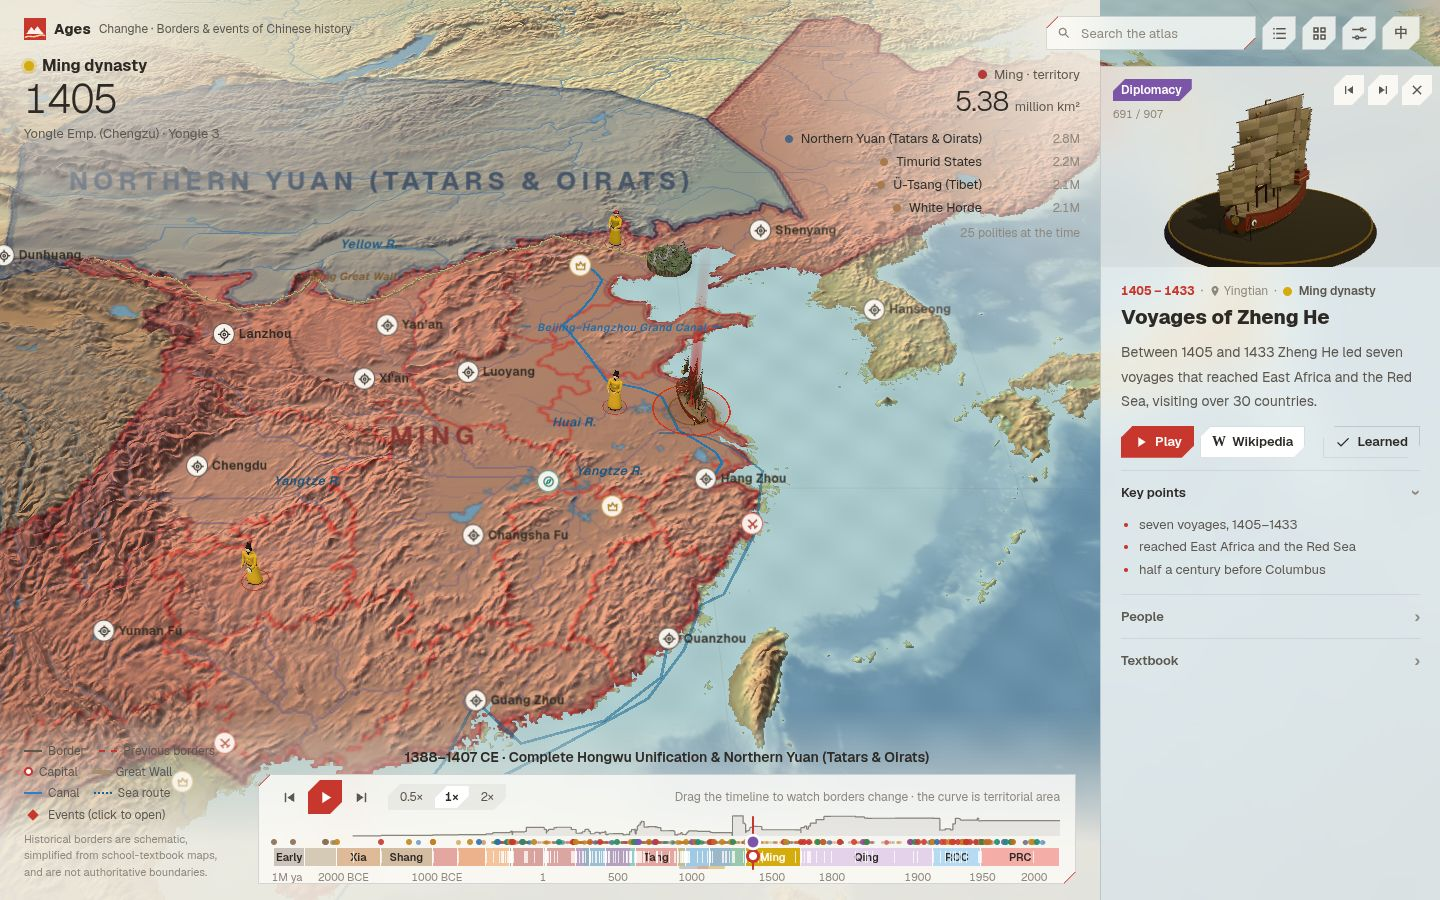
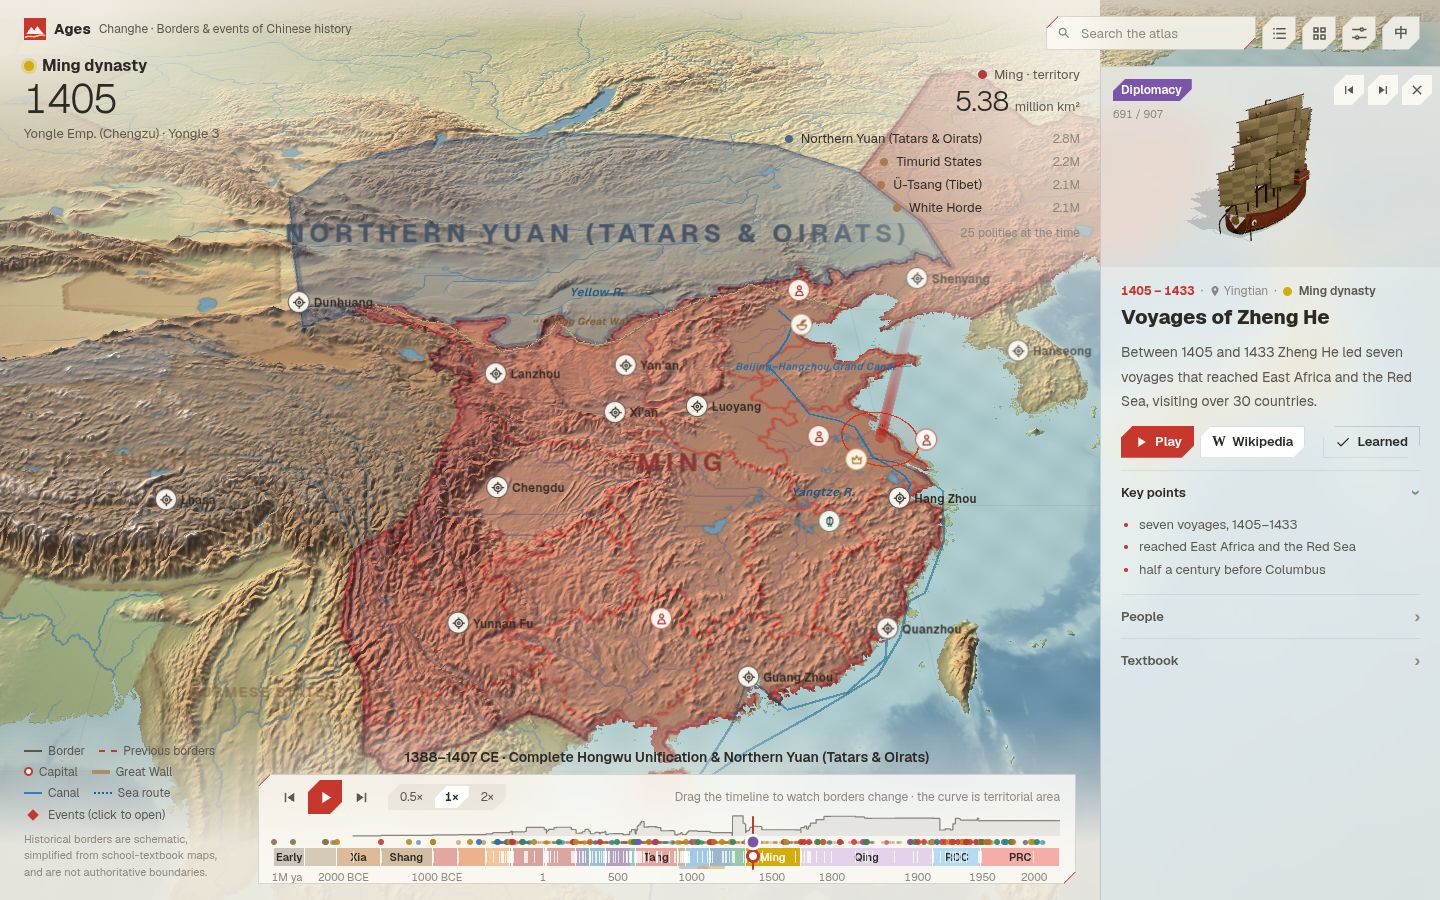
Drop the bronze stage under card previews; models keep their own base

diff --git a/src/client/ui/preview.ts b/src/client/ui/preview.ts
@@ -4,7 +4,7 @@ import { outdoorEnvironment } from '../models/environment.ts';
 import { instance } from '../models/library.ts';
 
 /**
- * The turntable at the top of the info panel: the subject's 3D model (landmark, figure, army …) on a bronze plinth,
+ * The turntable at the top of the info panel: the subject's 3D model (landmark, figure, army …) on its own base,
  * slowly turning; drag to spin it. One small renderer, shared by every card and only running while visible.
  */
 export class Preview {
@@ -40,17 +40,10 @@ export class Preview {
     const rim = new THREE.DirectionalLight('#fde68a', 0.9);
     rim.position.set(0.5, 2.5, -3.5);
     this.scene.add(key, fill, rim, new THREE.HemisphereLight('#e0f2fe', '#2a2219', 0.35));
-    // a stepped bronze plinth with a hairline ring, so every model sits on the same stage
-    const plinth = new THREE.Group();
-    const m1 = new THREE.MeshStandardMaterial({ color: '#2a2219', roughness: 0.8, metalness: 0.2 });
-    const m2 = new THREE.MeshStandardMaterial({ color: '#8a6a3a', roughness: 0.45, metalness: 0.75 });
-    const a = new THREE.Mesh(new THREE.CylinderGeometry(1.22, 1.3, 0.08, 64), m1);
-    a.position.y = -0.04;
-    a.receiveShadow = true;
-    const ring = new THREE.Mesh(new THREE.TorusGeometry(1.24, 0.012, 6, 96), m2);
-    ring.rotation.x = Math.PI / 2;
-    plinth.add(a, ring);
-    this.scene.add(plinth);
+    // models bring their own base; an invisible floor only catches a soft contact shadow
+    const floor = new THREE.Mesh(new THREE.CircleGeometry(2.4, 48).rotateX(-Math.PI / 2), new THREE.ShadowMaterial({ opacity: 0.18 }));
+    floor.receiveShadow = true;
+    this.scene.add(floor);
     this.bindDrag();
   }
 
@@ -85,7 +78,7 @@ export class Preview {
     let g: THREE.Group;
     try { g = await instance(recipe, true); } catch { return; }
     if (id !== this.req) return;
-    // frame the model: normalise to the plinth and aim the camera at its middle
+    // frame the model: normalise its footprint and aim the camera at its middle
     const box = new THREE.Box3().setFromObject(g);
     const size = box.getSize(new THREE.Vector3());
     const k = 1.9 / Math.max(size.x, size.z, size.y * 0.9, 0.01);
